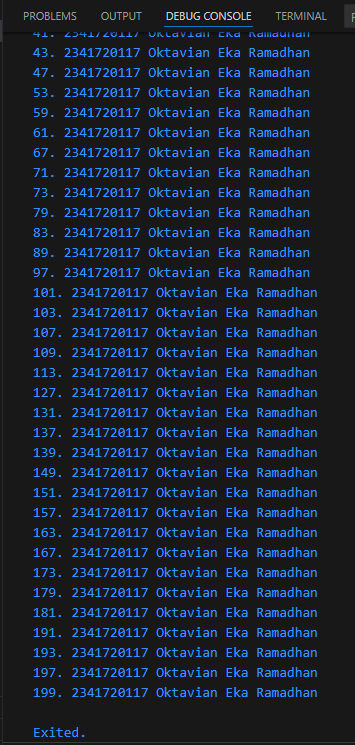
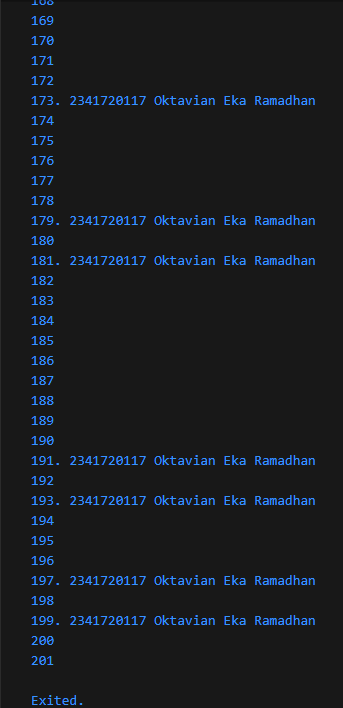
fix: Pertemuan3_TugasPraktikum

Changed region(s): [[0.0, 0.0, 1.0, 1.0], [0.9621, 0.0, 1.0, 0.0621]]

diff --git a/Pertemuan3/TugasPraktikum/src/code.dart b/Pertemuan3/TugasPraktikum/src/code.dart
@@ -10,6 +10,8 @@ void printPrimes(int end) {
   for (var i = 2; i <= end; i++) {
     if (isPrime(i)) {
       print("$i. 2341720117 Oktavian Eka Ramadhan");
+    } else {
+      print("$i");
     }
   }
 }
